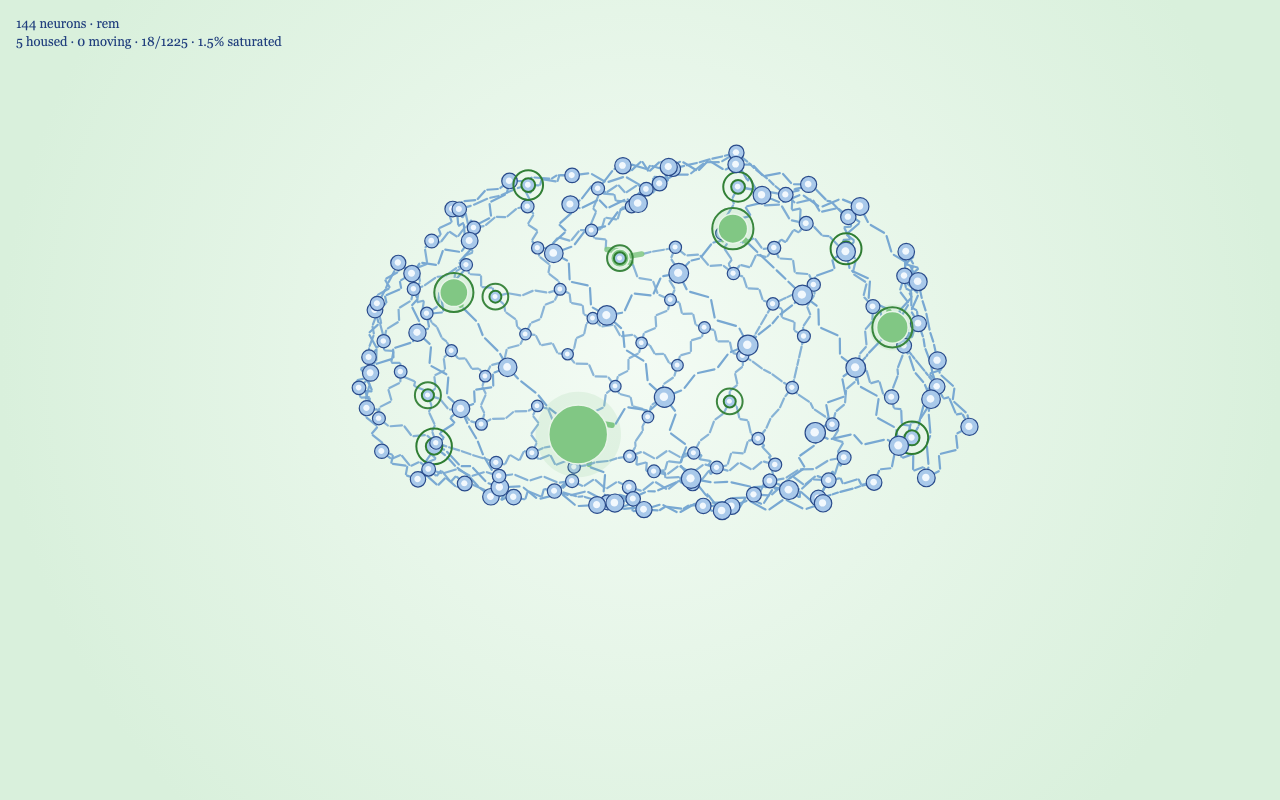
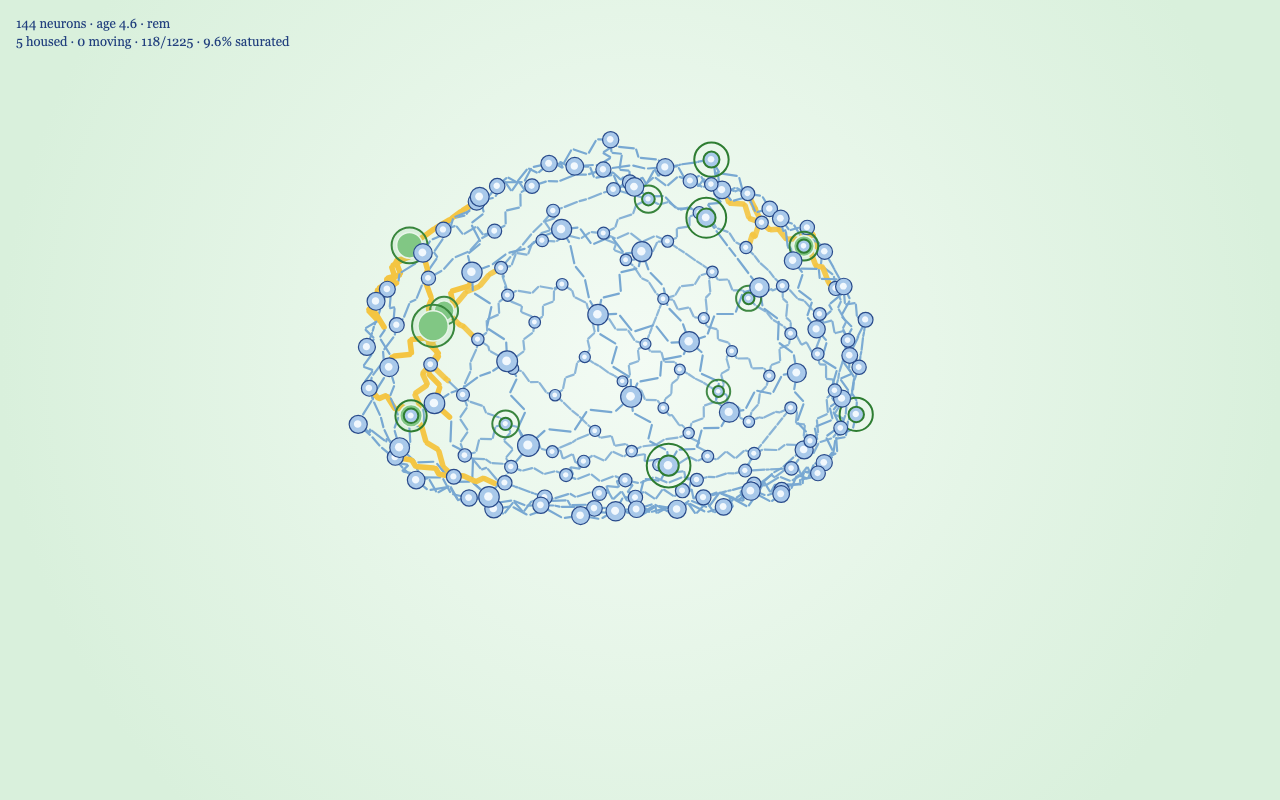
Age the brain from saturation and slow new sensations as it grows older.
Permanent thoughts claim a shrinking Fibonacci run of yellow Schwann cells, and the live view can be paused for a talk.

Changed region(s): [[0.2812, 0.1562, 0.7812, 0.6562], [0.0938, 0.0312, 0.2188, 0.0625]]

diff --git a/brain-3d/js/simulation.js b/brain-3d/js/simulation.js
@@ -76,7 +76,7 @@
     // clockwise. Saturation walks around that order, then moves one Schwann
     // cell farther from the neuron and walks around again.
     const schwannCount = config.schwann.cellsPerAxon;
-    const blockCounts = cfg.saturation.blockCounts;
+    const saturationCfg = cfg.saturation;
     const schwannTotal = edges.length * schwannCount;
     const maxInternals = cfg.external.sizes.reduce(function (max, band) {
       return Math.max(max, band.internals);
@@ -143,6 +143,89 @@
       }
       return order;
     });
+    const saturationWalks = new Array(neurons.length);
+    const saturationCursors = new Uint16Array(neurons.length);
+
+    function saturationWalk(nodeId) {
+      if (saturationWalks[nodeId]) return saturationWalks[nodeId];
+      const order = [];
+      const queue = [nodeId];
+      const seenNodes = new Uint8Array(neurons.length);
+      const seenCells = new Uint8Array(schwannTotal);
+      seenNodes[nodeId] = 1;
+      let read = 0;
+      while (read < queue.length) {
+        const current = queue[read++];
+        const local = saturationOrder[current];
+        const queuedEdges = {};
+        for (let i = 0; i < local.length; i++) {
+          const candidate = local[i];
+          const key = candidate.edge * schwannCount + candidate.cell;
+          if (!seenCells[key]) {
+            seenCells[key] = 1;
+            order.push(candidate);
+          }
+          if (queuedEdges[candidate.edge]) continue;
+          queuedEdges[candidate.edge] = true;
+          const edge = edges[candidate.edge];
+          const next = edge.a === current ? edge.b : edge.a;
+          if (!seenNodes[next]) {
+            seenNodes[next] = 1;
+            queue.push(next);
+          }
+        }
+      }
+      saturationWalks[nodeId] = order;
+      return order;
+    }
+
+    function ageFromSaturation(value) {
+      if (value <= 0) return 0;
+      const ratio = clamp(value / saturationCfg.ceiling, 0, 0.999999);
+      const progress = -Math.log(1 - ratio) / saturationCfg.ageRate;
+      return clamp(
+        saturationCfg.ageAtTarget *
+          Math.pow(progress, 1 / saturationCfg.agePower),
+        0,
+        saturationCfg.maxAge
+      );
+    }
+
+    function sensationRate(age) {
+      const rates = saturationCfg.sensationRates;
+      if (age <= rates[0].age) return rates[0].perYear;
+      for (let i = 1; i < rates.length; i++) {
+        if (age > rates[i].age) continue;
+        const a = rates[i - 1];
+        const b = rates[i];
+        const t = (age - a.age) / (b.age - a.age);
+        return a.perYear + (b.perYear - a.perYear) * t;
+      }
+      return rates[rates.length - 1].perYear;
+    }
+
+    function sensationIntervalForAge(age) {
+      const birthRate = saturationCfg.sensationRates[0].perYear;
+      return saturationCfg.birthInterval * birthRate / sensationRate(age);
+    }
+
+    function blockSizeForSaturation(value) {
+      const room = clamp(
+        (saturationCfg.ceiling - value) / saturationCfg.ceiling,
+        0,
+        1
+      );
+      const ideal = Math.max(
+        1,
+        saturationCfg.maxBlock * Math.pow(room, saturationCfg.blockPower)
+      );
+      let selected = saturationCfg.fibonacci[0];
+      for (let i = 1; i < saturationCfg.fibonacci.length; i++) {
+        if (saturationCfg.fibonacci[i] > ideal + 1e-9) break;
+        selected = saturationCfg.fibonacci[i];
+      }
+      return selected;
+    }
 
     const external = {
       active: false,
@@ -211,6 +294,7 @@
       serial: 0,
       cohortActive: false,
       nextSpawn: cfg.spawnDelay,
+      lastSpawnAt: -Infinity,
       phase: 'awake',
       phaseBlend: 0,
       asleep: false,
@@ -223,6 +307,8 @@
       unsettled: 0,
       crystallized: 0,
       saturation: 0,
+      age: 0,
+      sensationRate: sensationRate(0),
       threshold: config.sleep.anchors[0].u,
       calculatedRemSeconds: 0,
       deepTargetSeconds: 0,
@@ -249,13 +335,16 @@
     };
 
     function saturateNextSchwann(nodeId) {
-      const order = saturationOrder[nodeId];
-      for (let i = 0; i < order.length; i++) {
+      const order = saturationWalk(nodeId);
+      for (let i = saturationCursors[nodeId]; i < order.length; i++) {
+        saturationCursors[nodeId] = i + 1;
         const candidate = order[i];
         if (saturatedSchwann[candidate.edge][candidate.cell]) continue;
         saturatedSchwann[candidate.edge][candidate.cell] = true;
         state.stats.saturated++;
         state.saturation = state.stats.saturated / schwannTotal;
+        state.age = ageFromSaturation(state.saturation);
+        state.sensationRate = sensationRate(state.age);
         state.stats.latestSaturated = {
           node: nodeId,
           edge: candidate.edge,
@@ -267,7 +356,7 @@
     }
 
     function blockSchwannCells(home, nodeId) {
-      const requested = blockCounts[Math.floor(rng() * blockCounts.length)];
+      const requested = blockSizeForSaturation(state.saturation);
       let blocked = 0;
       for (let i = 0; i < requested; i++) {
         if (!saturateNextSchwann(nodeId)) break;
@@ -661,6 +750,7 @@
 
     function spawnCohort() {
       const cohortSerial = ++state.serial;
+      state.lastSpawnAt = state.time;
       const z = rng() * 2 - 1;
       const theta = rng() * Math.PI * 2;
       const ring = Math.sqrt(Math.max(0, 1 - z * z));
@@ -1076,7 +1166,12 @@
       stepHomes(dt);
       if (state.cohortActive && !external.active && activeInternals() === 0) {
         state.cohortActive = false;
-        if (!state.asleep) state.nextSpawn = state.time + cfg.spawnDelay;
+        if (!state.asleep) {
+          state.nextSpawn = Math.max(
+            state.time + cfg.spawnDelay,
+            state.lastSpawnAt + sensationIntervalForAge(state.age)
+          );
+        }
       }
       updateSleep(dt);
     }

diff --git a/brain-3d/js/config.js b/brain-3d/js/config.js
@@ -72,7 +72,7 @@
       somaEdge: '#294b8b',
       nucleus: '#f2f8fd',
       schwann: '#78a8d2',
-      saturatedSchwann: '#81c784',
+      saturatedSchwann: '#f4c542',
       anchorRing: '#2e7d32',
       external: '#e53935',
       externalCore: '#ffebee',
@@ -93,7 +93,7 @@
       nightSoma: '#d5e6f6',
       nightSomaEdge: '#9ec0e4',
       nightSchwann: '#c5d8ea',
-      nightSaturatedSchwann: '#c8e6c9',
+      nightSaturatedSchwann: '#ffe082',
       nightText: '#e7f0f8',
       text: '#22407e'
     },
@@ -171,8 +171,27 @@
         growDuration: 0.35
       },
       saturation: {
-        // A permanent thought blocks one clockwise run of this many cells.
-        blockCounts: [1, 2, 3, 5]
+        // Select the largest Fibonacci block below the saturation-dependent
+        // ideal. The calibrated age curve maps 80% saturation to age 50.
+        fibonacci: [1, 2, 3, 5, 8, 13, 21, 34],
+        maxBlock: 34,
+        ceiling: 0.84,
+        blockPower: 1.15,
+        ageAtTarget: 50,
+        ageRate: 3.044522,
+        agePower: 1.35,
+        maxAge: 100,
+        // Relative sensation frequency, linearly interpolated by age.
+        birthInterval: 10,
+        sensationRates: [
+          { age: 0, perYear: 10.1 },
+          { age: 8, perYear: 7.4 },
+          { age: 16, perYear: 5.1 },
+          { age: 24, perYear: 3.6 },
+          { age: 50, perYear: 3.0 },
+          { age: 70, perYear: 2.3 },
+          { age: 100, perYear: 1.6 }
+        ]
       }
     }
   };

diff --git a/brain-3d/js/main.js b/brain-3d/js/main.js
@@ -82,7 +82,31 @@
   }
 
   let accumulator = 0;
+  let paused = false;
+  const toggle = document.createElement('button');
+  toggle.id = 'play-toggle';
+  toggle.type = 'button';
+  toggle.textContent = 'Pause';
+  toggle.setAttribute('aria-pressed', 'false');
+  document.body.appendChild(toggle);
+
+  function setPaused(next) {
+    paused = next;
+    toggle.textContent = paused ? 'Resume' : 'Pause';
+    toggle.setAttribute('aria-pressed', paused ? 'true' : 'false');
+  }
+
+  toggle.addEventListener('click', function () {
+    setPaused(!paused);
+  });
+  root.addEventListener('keydown', function (event) {
+    if (event.code !== 'Space' || event.target === toggle) return;
+    event.preventDefault();
+    setPaused(!paused);
+  });
+
   paper.view.onFrame = function (event) {
+    if (paused) return;
     const delta = Math.min(event.delta, 0.05);
     accumulator += delta;
     while (accumulator >= fixedStep) {
@@ -91,4 +115,5 @@
     }
     renderer.draw(delta);
   };
+  root.brain3d.paused = function () { return paused; };
 })(window);

diff --git a/brain-3d/styles.css b/brain-3d/styles.css
@@ -10,3 +10,26 @@ html, body {
   width: 100vw;
   height: 100vh;
 }
+
+#play-toggle {
+  position: fixed;
+  right: 22px;
+  bottom: 22px;
+  z-index: 2;
+  border: 1px solid #294b8b;
+  border-radius: 999px;
+  background: rgba(246, 251, 255, 0.94);
+  color: #22407e;
+  font-family: Georgia, serif;
+  font-size: 16px;
+  line-height: 1;
+  padding: 12px 20px;
+  cursor: pointer;
+}
+
+#play-toggle:hover,
+#play-toggle:focus-visible {
+  background: #ffffff;
+  outline: 2px solid #294b8b;
+  outline-offset: 3px;
+}

diff --git a/brain-3d/js/renderer.js b/brain-3d/js/renderer.js
@@ -423,7 +423,8 @@
         detail += ' · ' + stats.avgMs.toFixed(2) + ' ms · ' +
           stats.fps.toFixed(0) + ' fps';
       }
-      return stats.neurons + ' neurons · ' + simulation.phase + sensationLabel() +
+      return stats.neurons + ' neurons · age ' + simulation.age.toFixed(1) +
+        ' · ' + simulation.phase + sensationLabel() +
         '\n' + detail;
     }
 

diff --git a/brain-3d/Readme.md b/brain-3d/Readme.md
@@ -39,9 +39,9 @@ The night uses the 2D duration rule. Five unsettled homes start an 18-hour night
 - Awake is light blue. As temporary homes approach the threshold, the background warms toward light red.
 - Stage 1 is pale lavender. It lasts until the sensation already traveling has faded or found a home. No new sensation starts.
 - REM is very light green. It lasts at least half the calculated night, and longer if a temporary home is still walking to its domain center. Those homes travel at three times the daytime speed, then settle light green at their regular size.
-- As each thought reaches its permanent home, it blocks a seeded-random group of 1, 2, 3, or 5 adjoining Schwann cells, which turn light green. Selection proceeds clockwise around that neuron, starting with the cells nearest the soma before moving outward.
+- As each thought reaches its permanent home, it blocks a Fibonacci-sized group of Schwann cells, which turn yellow. At low saturation it can claim 34 cells; the largest allowed group falls through 21, 13, 8, 5, 3, 2, and 1 as saturation grows. Selection proceeds clockwise from the permanent-home neuron and expands through neighboring neurons when the local cells are full.
 - Deep sleep is dark gray and lasts exactly the calculated half, even when REM ran longer. The neurons brighten so they stay visible.
-- Saturation is the blocked Schwann cells divided by every Schwann cell. The brain starts at 6° per second and slows toward 0.6° per second as that percentage rises.
+- Saturation is the blocked Schwann cells divided by every Schwann cell. A calibrated biological-age curve maps 80% saturation to age 50 and approaches an 84% ceiling. Sensations arrive most often at age 0; their spacing grows as the displayed age rises. The brain starts at 6° per second and slows toward 0.6° per second as saturation rises.
 
 ![Deep sleep after the temporary homes have settled](screenshots/deep.png)
 - Waking eases from dark gray back to light blue.
@@ -55,7 +55,7 @@ cd brain-3d
 python3 -m http.server 8123 --bind 127.0.0.1
 ```
 
-Then open `http://127.0.0.1:8123/`.
+Then open `http://127.0.0.1:8123/`. The Pause button at the bottom right freezes the thoughts and the rotation; Resume continues from that moment. The space bar does the same while the button is not focused.
 
 ## Performance readout
 
